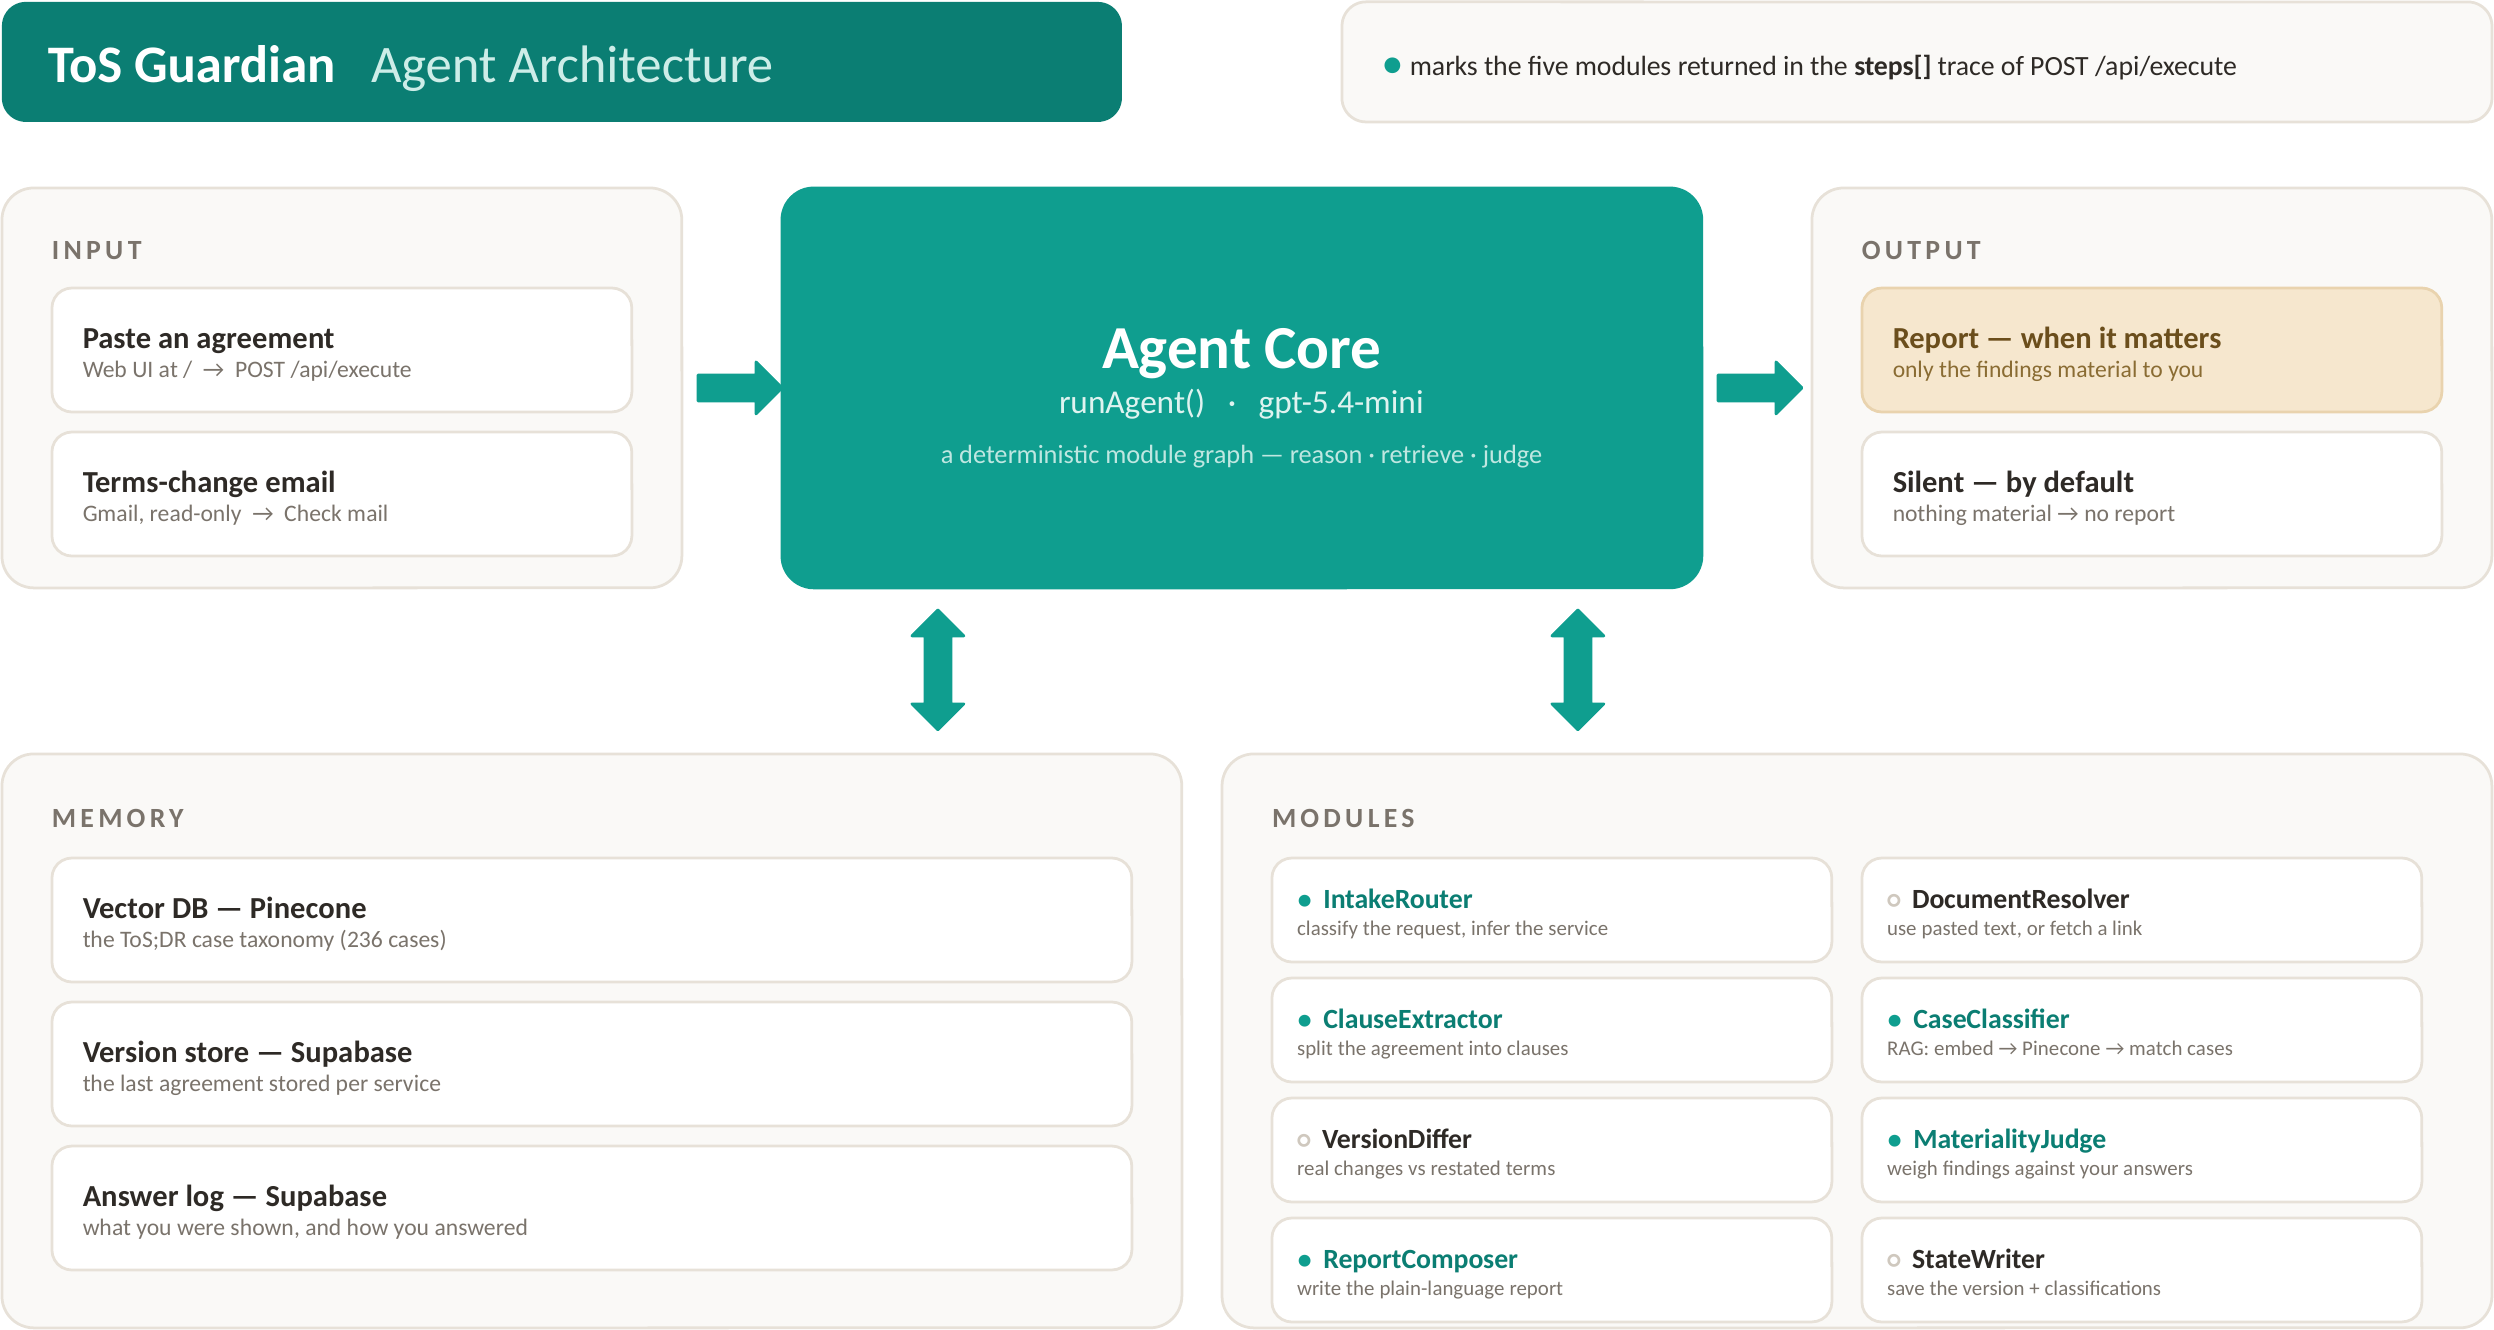
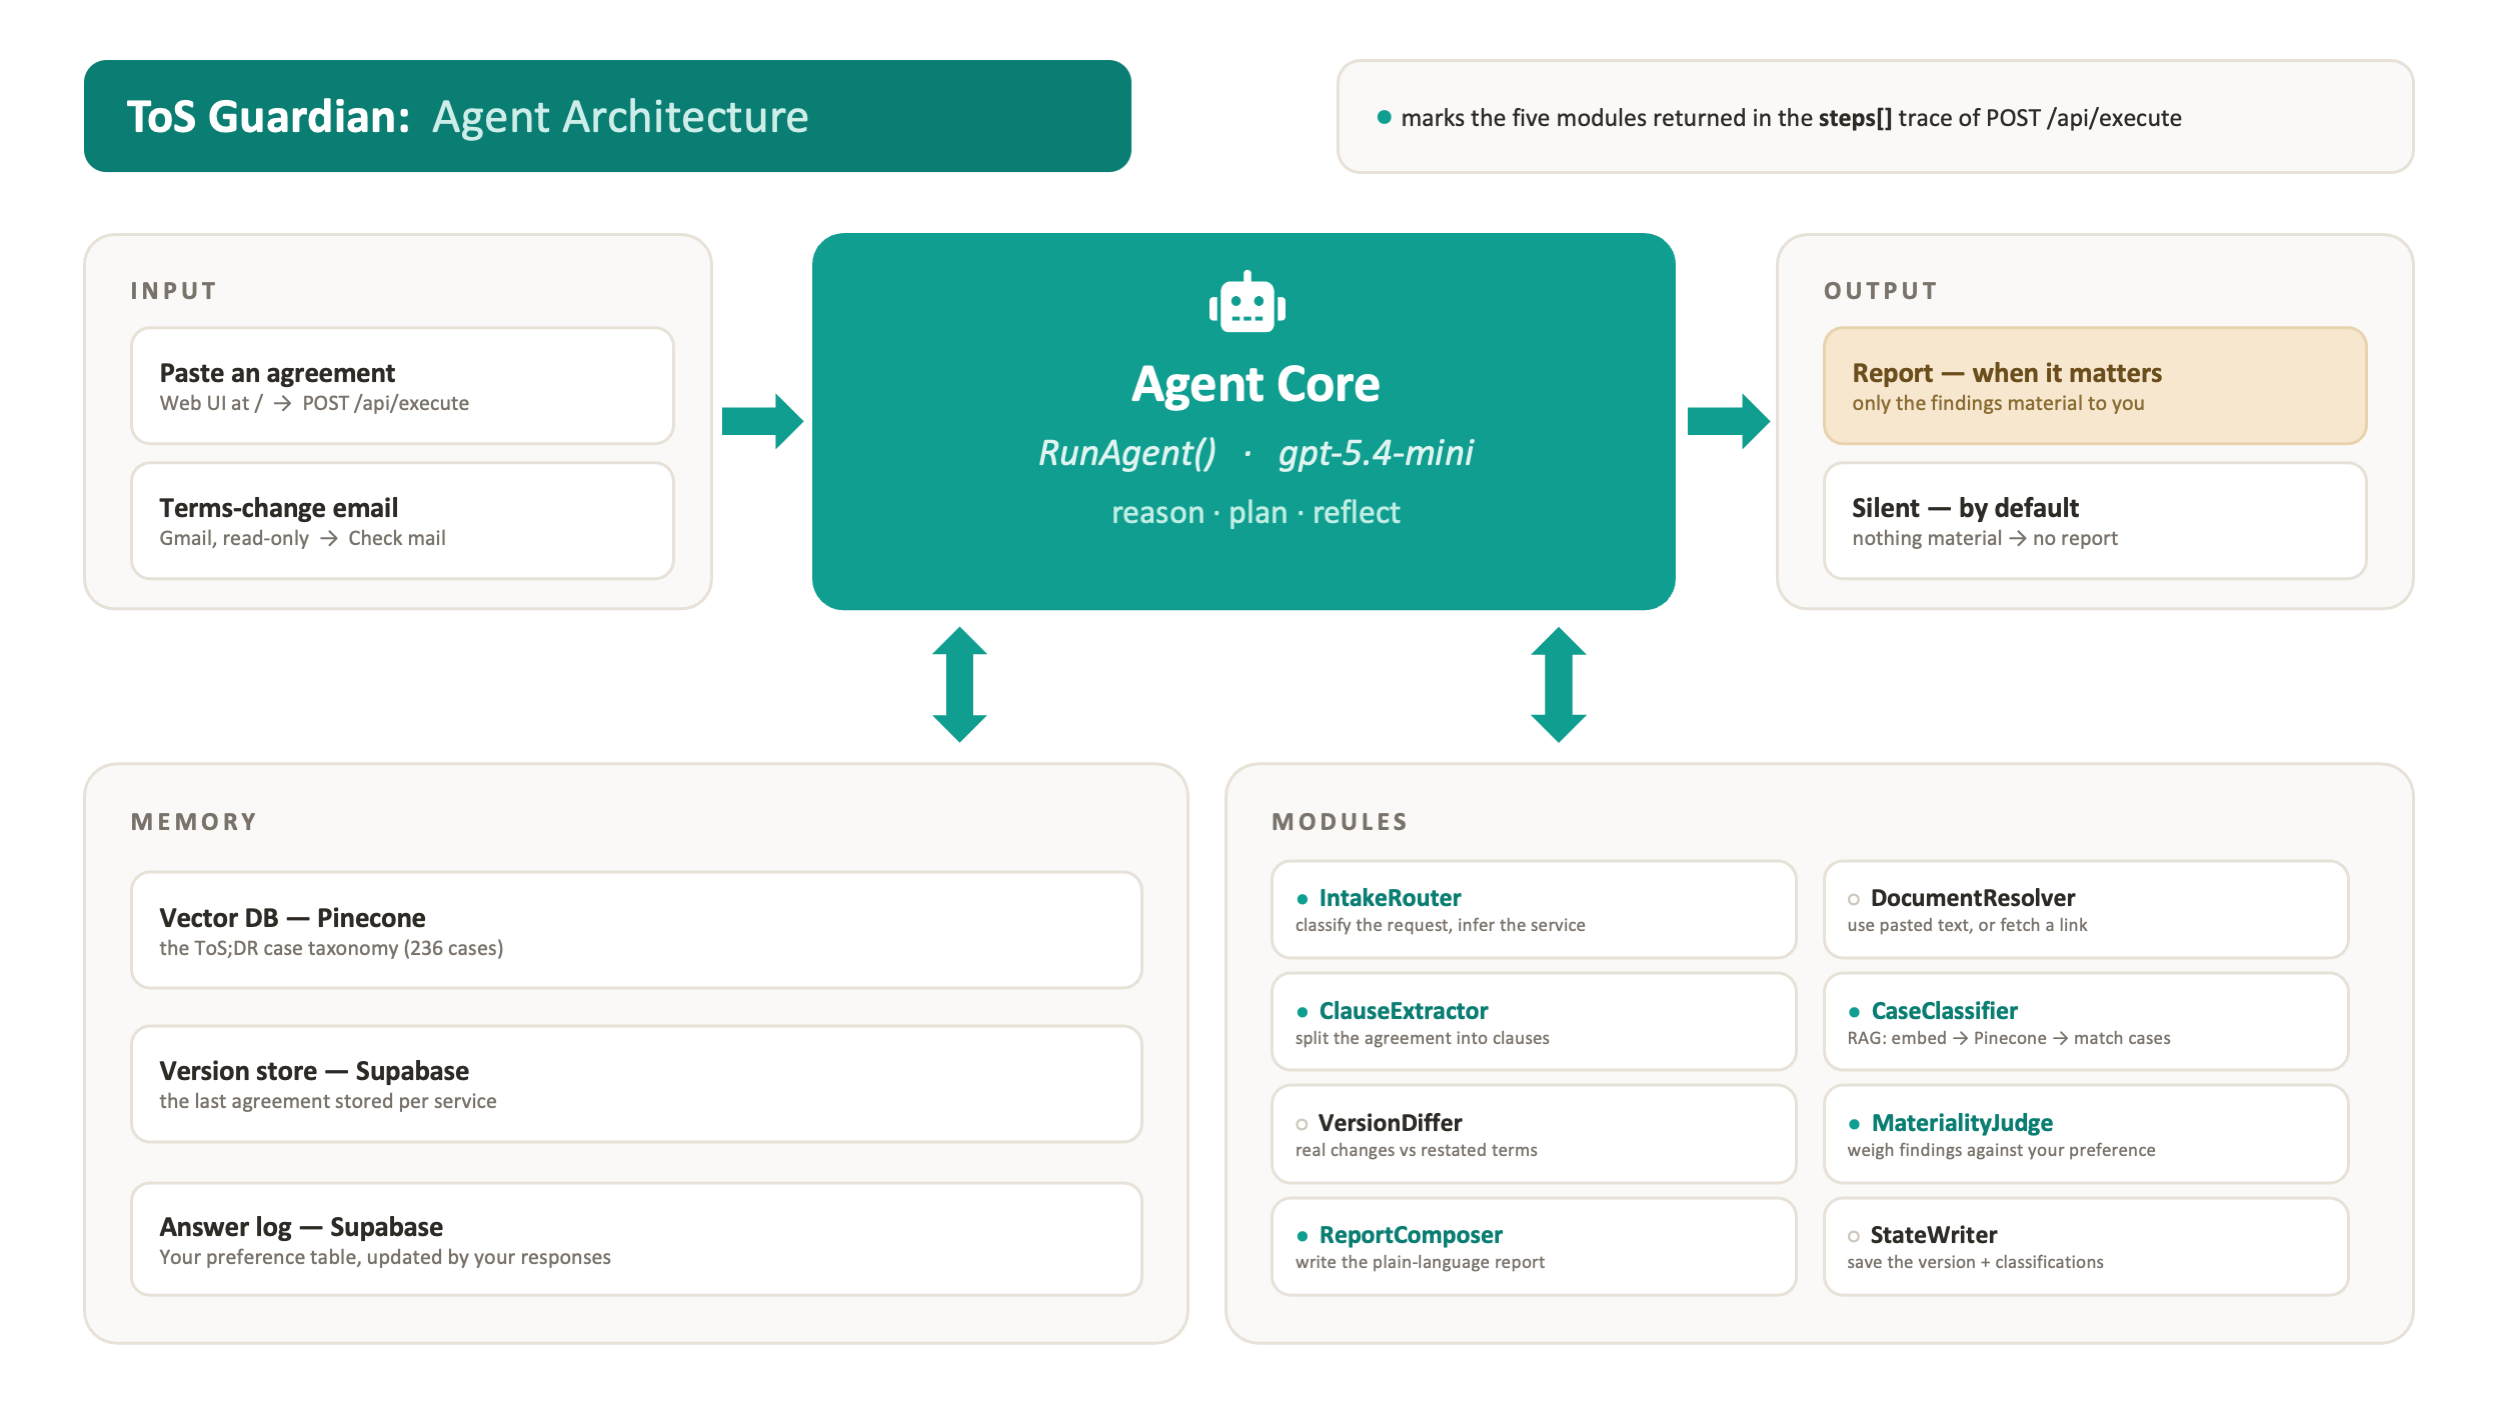
update

diff --git a/components/add-agreement/AddAgreement.tsx b/components/add-agreement/AddAgreement.tsx
@@ -21,6 +21,17 @@
  *     no normalisation — so a grader can paste an arbitrary prompt and have exactly
  *     that string reach the endpoint.
  *
+ * RUN BUTTON — THREE MODES (one control, no second button at the foot of the page):
+ *   - in flight            → "Running agent…", disabled;
+ *   - run done + reportId  → "Review the results →", ENABLED, navigates to the
+ *                            persisted report via onSeeResults(reportId);
+ *   - otherwise            → "Run Agent (Review it for me)", enabled, runs.
+ * It stays in the "Review the results" mode until the composed prompt changes
+ * (edit either field, or Clear), which returns it to run mode — the same
+ * token-saving guard as before, now expressed as navigation instead of a
+ * greyed-out dead end. A finished run that persisted NO report keeps the old
+ * disabled treatment, since there is nowhere to navigate to.
+ *
  * IMPORTANT (grading requirement, CLAUDE.md §3): the friendly step list shows
  * FRIENDLY labels, but every step's real frozen module name (`step.module`) stays
  * untouched in the data — and the RAW TRACE BOX above it prints that real name
@@ -176,7 +187,14 @@ export default function AddAgreement({
   // re-enables the button automatically.
   const alreadyReviewed =
     lastSubmitted !== null && composedPrompt === lastSubmitted;
-  const runDisabled = loading || alreadyReviewed;
+
+  // The reviewed prompt produced a persisted report → the Run button becomes the
+  // way INTO that report rather than a dead greyed-out control.
+  const canViewResults = alreadyReviewed && reportId !== null;
+
+  // Disabled only while in flight, or when a finished run persisted no report at
+  // all (nothing to re-run, nowhere to navigate) — the old greyed treatment.
+  const runDisabled = loading || (alreadyReviewed && !canViewResults);
 
   /** First manual keystroke in the textarea = departure from the demo state → the
    *  service field auto-clears ONCE. After that it is fully user-owned. */
@@ -198,6 +216,16 @@ export default function AddAgreement({
     dismissDemo();
     setLastSubmitted(null);
     setValidationHint(null);
+  }
+
+  /** The Run button's click target depends on its mode: navigate to the finished
+   *  report when there is one, otherwise start a run. */
+  function handlePrimaryClick() {
+    if (canViewResults && reportId) {
+      onSeeResults?.(reportId);
+      return;
+    }
+    void handleReview();
   }
 
   async function handleReview() {
@@ -288,10 +316,14 @@ export default function AddAgreement({
             <button
               type="button"
               className={styles.primaryBtn}
-              onClick={handleReview}
+              onClick={handlePrimaryClick}
               disabled={runDisabled}
             >
-              {loading ? "Running agent…" : "Run Agent (Review it for me)"}
+              {loading
+                ? "Running agent…"
+                : canViewResults
+                  ? "Review the results →"
+                  : "Run Agent (Review it for me)"}
             </button>
             <button
               type="button"
@@ -304,6 +336,12 @@ export default function AddAgreement({
 
           {validationHint ? (
             <p className={styles.hintNotice}>{validationHint}</p>
+          ) : canViewResults ? (
+            // The Run button is now the way into the finished report; say how to
+            // get back to a fresh run.
+            <p className={styles.reassurance}>
+              Your report is ready — clear or edit the text to review something new.
+            </p>
           ) : alreadyReviewed ? (
             // On-screen (not a tooltip) explanation of the disabled Run button.
             <p className={styles.hintNotice}>
@@ -397,23 +435,14 @@ export default function AddAgreement({
 
               <div className={styles.divider} />
 
+              {/* Status only. The way into the report is the Run button up top,
+                  which turns into "Review the results →" once a run completes. */}
               <div className={styles.footer}>
                 <span className={styles.footerStatus}>
                   {isDone
                     ? `Done — ${count(displaySteps.length, "step", "steps")}`
                     : "Working through it…"}
                 </span>
-                {isDone && (
-                  <button
-                    type="button"
-                    className={`${styles.seeBtn} ${reportId ? "" : styles.seeBtnDisabled}`}
-                    onClick={() => reportId && onSeeResults?.(reportId)}
-                    disabled={!reportId}
-                    title={reportId ? undefined : "Run a review to see the full report"}
-                  >
-                    See what I found →
-                  </button>
-                )}
               </div>
             </>
           )}
